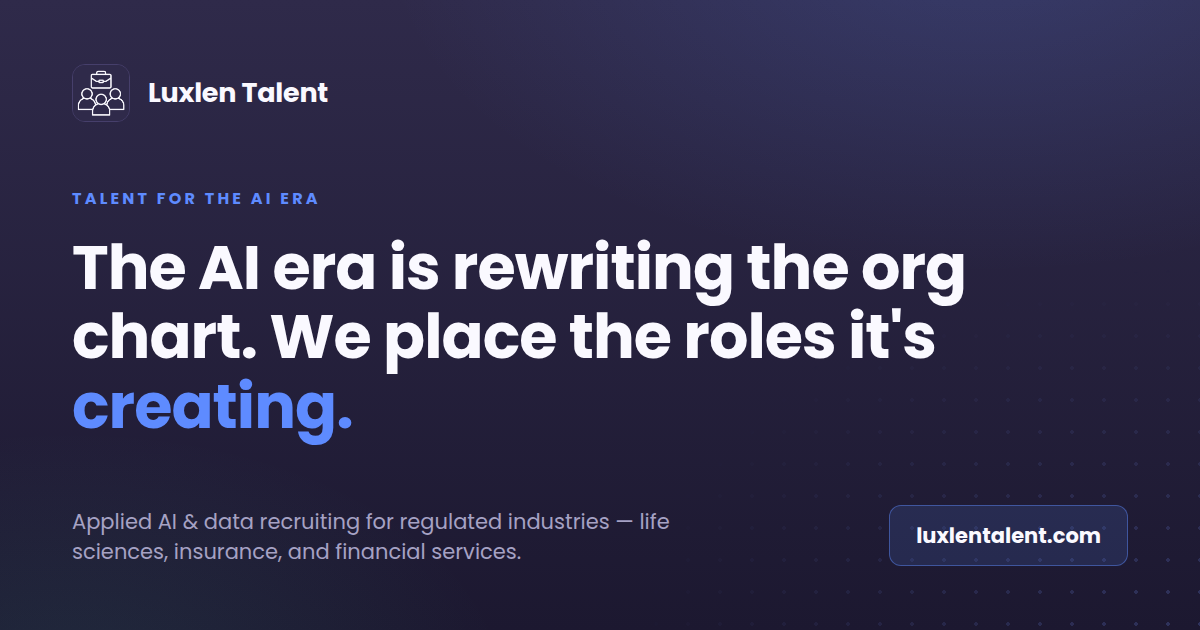
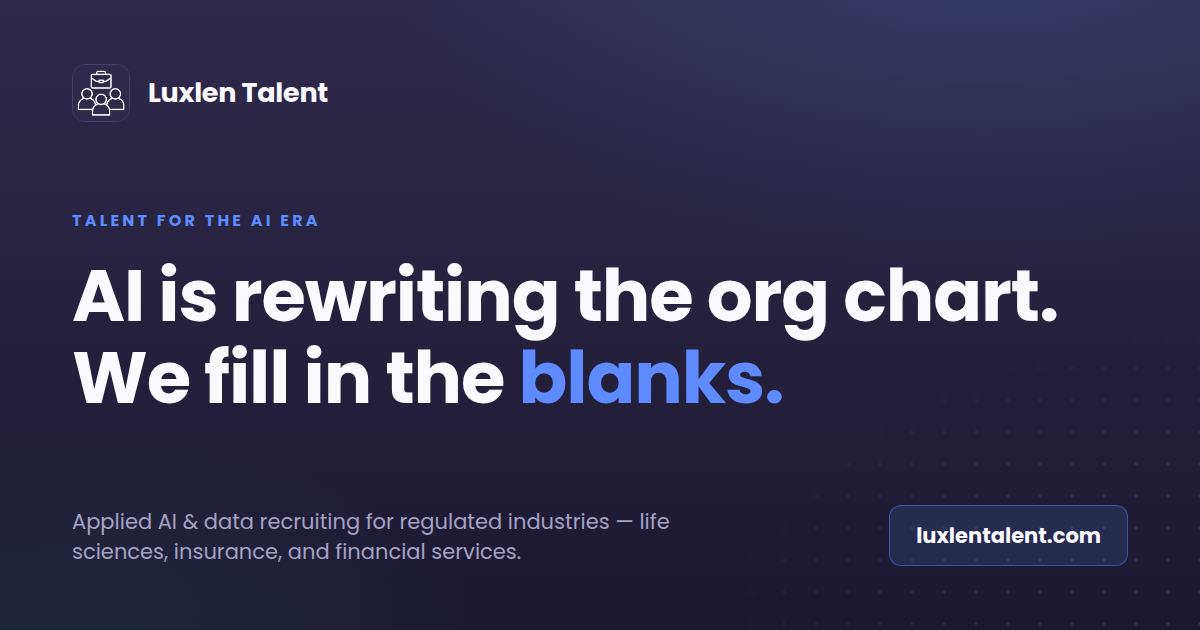
Add files via upload

Changed region(s): [[0.0617, 0.3619, 0.8942, 0.7238], [0.0617, 0.3016, 0.2775, 0.3619]]

diff --git a/index.html b/index.html
@@ -377,7 +377,7 @@
   <section class="hero">
     <div class="wrap">
       <span class="eyebrow">Talent for the AI era</span>
-      <h1>The AI era is rewriting the org chart. We place the roles it's <span class="accent">creating.</span></h1>
+      <h1>AI is rewriting the org chart. We fill in the <span class="accent">blanks.</span></h1>
       <p class="sub">Luxlen Talent helps regulated organizations — life sciences, insurance, and financial services — define and fill the emerging roles of applied AI: forward-deployed engineers, applied&nbsp;AI leaders, and the data talent behind them, before a mis-scoped search costs months.</p>
       <div class="hero-cta">
         <a class="btn" href="#contact">Start a conversation</a>
